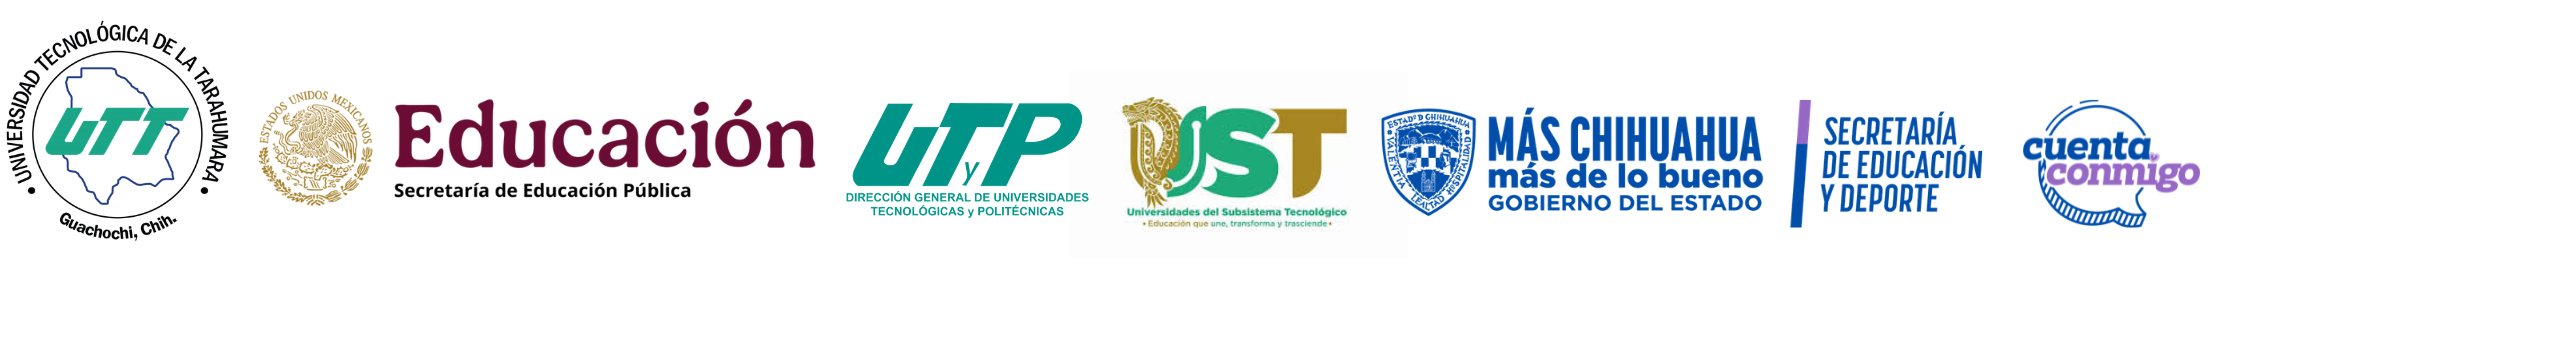
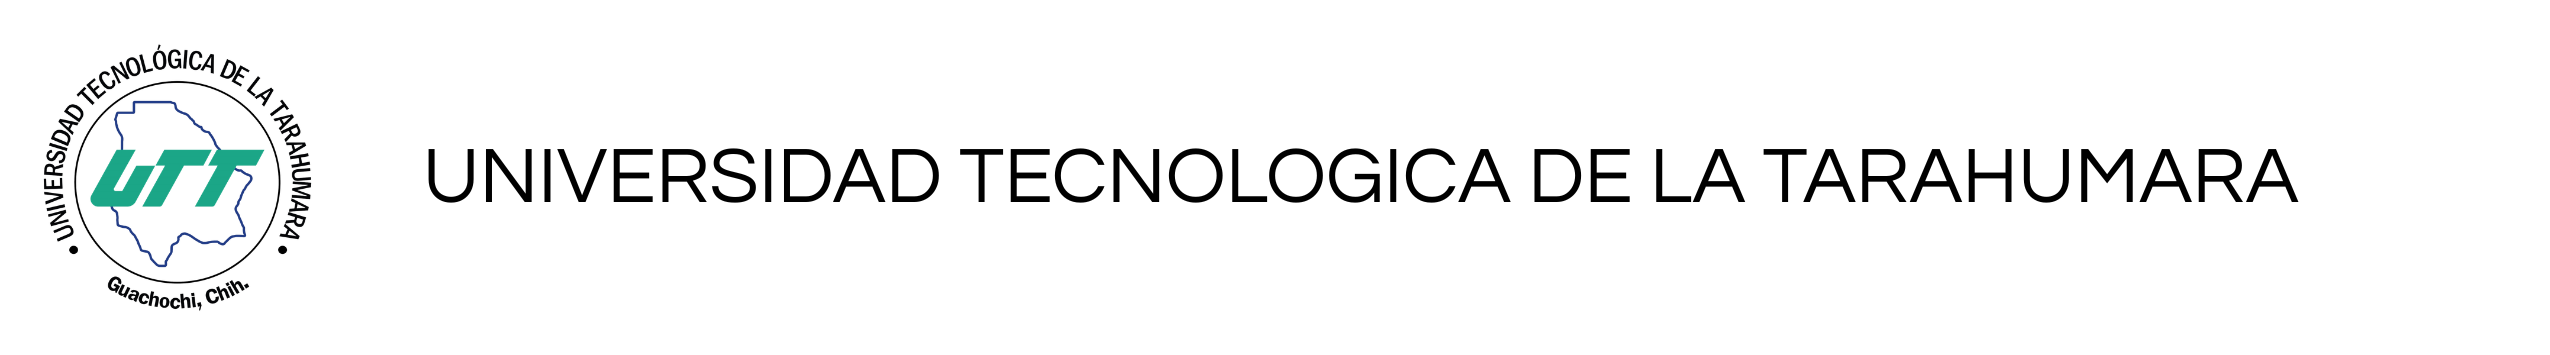
se elimino la greca y se actualizo el anvabezado

Changed region(s): [[0.0, 0.062, 0.8984, 0.7127], [0.031, 0.7437, 0.0929, 0.8676], [0.8055, 0.2789, 0.8365, 0.3408]]

diff --git a/admin/generate_admin_report.php b/admin/generate_admin_report.php
@@ -10,7 +10,7 @@ $organization = array(
     'address' => 'Carretera Guachochi - Yoquivo, KM. 1.5, Colonia Turuseachi, 33184 Guachochi, Chih.',
     'logo' => 'path/to/your/logo.png',
     'header_image' => __DIR__ . '/images/header.png',
-    'greca_image' => __DIR__ . '/images/grecas.png'
+    'greca_image' => __DIR__ . 'graca.png'
 );
 
 function getUserData($con)
